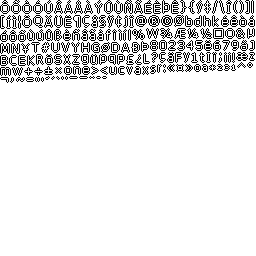
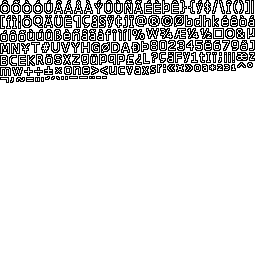
+ style

Changed region(s): [[0.0, 0.0, 1.0, 0.3125], [0.3438, 0.25, 0.4688, 0.3125], [0.9688, 0.0625, 1.0, 0.0938]]

diff --git a/spank3d/demo/Ui/Ui.cpp b/spank3d/demo/Ui/Ui.cpp
@@ -15,12 +15,13 @@ IMPLEMENT_APP(Ui);
 
 Ui::Ui()
 {
-	m_pTexSun = NULL;
+	m_pPieceSun = NULL;
 	m_pBitmapStyle = NULL;
 	m_pNinePatchStyle = NULL;
 	m_pHorizontalPatchStyle = NULL;
 	m_pVerticalPatchStyle = NULL;
 	m_pFontStyle = NULL;
+	m_pWindow = NULL;
 	m_nFPSFrame = 0;
 	m_fFPSTime = 0.0f;
 }
@@ -32,8 +33,8 @@ Ui::~Ui()
 
 bool Ui::Initialize()
 {
-	m_pTexSun = g_pResMgr->CreateTexture(_("sun.png"));
-	if (!m_pTexSun) return false;
+	m_pPieceSun = g_pUiResMgr->FindPieceInfo(_("piece_sun"));
+	if (!m_pPieceSun) return false;
 
 	m_pBitmapStyle = g_pUiResMgr->FindBitmapStyle(_("bs_default"));
 	if (!m_pBitmapStyle) return false;
@@ -51,22 +52,25 @@ bool Ui::Initialize()
 	if (!m_pFontStyle) return false;
 
 	const Vector2& wndSize = g_pDevice->GetSize();
-	const Vector2& sunSize = m_pTexSun->GetSize();
 
 	m_sunSpeed.Reset(Math::Random(150.0f, 200.0f), Math::Random(150.0f, 200.0f));
-	m_sunPosition.Reset(Math::Random(0.0f, wndSize.x-sunSize.x), Math::Random(0.0f, wndSize.y-sunSize.y));
+	m_sunPosition.Reset(Math::Random(0.0f, wndSize.x-m_pPieceSun->width), Math::Random(0.0f, wndSize.y-m_pPieceSun->height));
 
 	const Vector2& minPatchSize = m_pNinePatchStyle->GetMinSize();
 	m_patchSpeed.Reset(Math::Random(150.0f, 200.0f), Math::Random(150.0f, 200.0f));
 	m_patchPos.Reset(Math::Random(0.0f, wndSize.x-minPatchSize.x), Math::Random(0.0f, wndSize.y-minPatchSize.y));
 	m_patchSize.Reset(minPatchSize.x, minPatchSize.y);
 
+	m_pWindow = new TitledWindow(NULL);
+	m_pWindow->SetPosition(200.0f, 200.0f);
+	m_pWindow->SetSize(400.0f, 200.0f);
+
 	return true;
 }
 
 void Ui::Terminate()
 {
-	SAFE_RELEASE(m_pTexSun);
+
 }
 
 void Ui::Update(float dt)
@@ -86,13 +90,15 @@ void Ui::Update(float dt)
 
 void Ui::Render()
 {
- 	m_pNinePatchStyle->Render(m_patchPos, m_patchSize, UiState::STATE_DEFAULT);
- 	g_pRendererUi->DrawRect(m_sunPosition, m_pTexSun->GetSize(), m_pTexSun);
- 
- 	m_pBitmapStyle->Render(Vector2(0.0f, 0.0f), m_pBitmapStyle->GetMinSize(), UiState::STATE_DEFAULT);
- 	m_pHorizontalPatchStyle->Render(Vector2(0.0f, 100.0f), Vector2(200.0f, m_pHorizontalPatchStyle->GetMinSize().y), UiState::STATE_DEFAULT);
- 	m_pVerticalPatchStyle->Render(Vector2(0.0f, 200.0f), Vector2(m_pVerticalPatchStyle->GetMinSize().x, 200.0f), UiState::STATE_DEFAULT);
- 	m_pFontStyle->Render(m_strFPS, Vector2(0.0f, 0.0f), Rect(0.0f, 0.0f, 0.0f, 0.0f), UiState::STATE_DEFAULT);
+	m_pNinePatchStyle->Render(m_patchPos, m_patchSize, UiState::STATE_DEFAULT);
+	g_pRendererUi->DrawRect(m_sunPosition.x, m_sunPosition.y, float(m_pPieceSun->width), float(m_pPieceSun->height), m_pPieceSun);
+
+	m_pBitmapStyle->Render(Vector2(50.0f, 50.0f), m_pBitmapStyle->GetMinSize(), UiState::STATE_DEFAULT);
+	m_pHorizontalPatchStyle->Render(Vector2(50.0f, 100.0f), Vector2(200.0f, m_pHorizontalPatchStyle->GetMinSize().y), UiState::STATE_DEFAULT);
+	m_pVerticalPatchStyle->Render(Vector2(100.0f, 200.0f), Vector2(m_pVerticalPatchStyle->GetMinSize().x, 200.0f), UiState::STATE_DEFAULT);
+	m_pFontStyle->Render(m_strFPS, Vector2(0.0f, 0.0f), Rect(0.0f, 0.0f, 0.0f, 0.0f), UiState::STATE_DEFAULT);
+
+	m_pWindow->SystemRender(UiState::STATE_DEFAULT);
 
 	g_pRendererUi->FlushAll();
 }
@@ -102,7 +108,6 @@ void Ui::UpdatePosition(float dt)
 	m_sunPosition += m_sunSpeed*dt;
 
 	const Vector2& wndSize = g_pDevice->GetSize();
-	const Vector2& sunSize = m_pTexSun->GetSize();
 
 	if (m_sunPosition.x < 0.0f)
 	{
@@ -110,9 +115,9 @@ void Ui::UpdatePosition(float dt)
 		m_sunSpeed.x = -m_sunSpeed.x;
 	}
 
-	if (m_sunPosition.x + sunSize.x > wndSize.x)
+	if (m_sunPosition.x + m_pPieceSun->width > wndSize.x)
 	{
-		m_sunPosition.x = wndSize.x - sunSize.x;
+		m_sunPosition.x = wndSize.x - m_pPieceSun->width;
 		m_sunSpeed.x = -m_sunSpeed.x;
 	}
 
@@ -122,9 +127,9 @@ void Ui::UpdatePosition(float dt)
 		m_sunSpeed.y = -m_sunSpeed.y;
 	}
 
-	if (m_sunPosition.y + sunSize.y > wndSize.y)
+	if (m_sunPosition.y + m_pPieceSun->height > wndSize.y)
 	{
-		m_sunPosition.y = wndSize.y - sunSize.y;
+		m_sunPosition.y = wndSize.y - m_pPieceSun->height;
 		m_sunSpeed.y = -m_sunSpeed.y;
 	}
 }

diff --git a/spank3d/src/ui/controls/TitledWindow.cpp b/spank3d/src/ui/controls/TitledWindow.cpp
@@ -1,0 +1,38 @@
+/*!
+ * \file TitledWindow.cpp
+ * \date 10-01-2012 8:34:06
+ * 
+ * 
+ * \author zjhlogo (zjhlogo@gmail.com)
+ */
+#include <ui/controls/TitledWindow.h>
+#include <Spank3d.h>
+
+TitledWindow::TitledWindow(IWindow* parent)
+:IWindow(parent)
+{
+	m_pTitleStyle = g_pUiResMgr->FindHorizontalPatchStyle(_("hps_default_blue"));
+	m_pFontStyle = g_pUiResMgr->FindFontStyle(_("12px_Tahoma"));
+}
+
+TitledWindow::~TitledWindow()
+{
+	// TODO: 
+}
+
+void TitledWindow::Render(uint state)
+{
+	Vector2 pos = m_Position;
+	Vector2 size = m_Size;
+
+	size.y = m_pTitleStyle->GetBestSize().y;
+	m_pTitleStyle->Render(pos, size, state);
+
+	pos.y += size.y;
+	size.y = m_Size.y - m_pTitleStyle->GetBestSize().y;
+	m_pBgStyle->Render(pos, size, state);
+
+	pos.x = m_Position.x + m_pTitleStyle->GetPaddingLT().x;
+	pos.y = m_Position.y + 0.5f*(m_pTitleStyle->GetPaddingLT().y + m_pTitleStyle->GetBestSize().y - m_pTitleStyle->GetPaddingRB().y - m_pFontStyle->GetLineHeight());
+	m_pFontStyle->Render(_("TitledWindow"), pos, Rect(0.0f, 0.0f, 0.0f, 0.0f), state);
+}

diff --git a/spank3d/src/ui/style/BitmapFontStyle.cpp b/spank3d/src/ui/style/BitmapFontStyle.cpp
@@ -11,7 +11,8 @@
 BitmapFontStyle::BitmapFontStyle(const tstring& id)
 :IFontStyle(id)
 {
-	// TODO: 
+	m_fLineHeight = 0.0f;
+	m_nNumPages = 0;
 }
 
 BitmapFontStyle::~BitmapFontStyle()
@@ -19,6 +20,11 @@ BitmapFontStyle::~BitmapFontStyle()
 	DestroyTextures();
 	m_CharInfoMap.clear();
 	m_KerningMap.clear();
+}
+
+float BitmapFontStyle::GetLineHeight() const
+{
+	return m_fLineHeight;
 }
 
 bool BitmapFontStyle::Render(const tstring& strText, const Vector2& pos, const Rect& clipRect, uint state)
@@ -79,7 +85,9 @@ bool BitmapFontStyle::ParseCommonInfo(TiXmlElement* pXmlCommon)
 {
 	if (!pXmlCommon) return false;
 
-	if (!pXmlCommon->Attribute(_("lineHeight"), &m_nLineHeight)) return false;
+	int nLineHeight = 0;
+	if (!pXmlCommon->Attribute(_("lineHeight"), &nLineHeight)) return false;
+	m_fLineHeight = float(nLineHeight);
 
 	return true;
 }

diff --git a/spank3d/inc/ui/controls/IWindow.h b/spank3d/inc/ui/controls/IWindow.h
@@ -10,6 +10,7 @@
 
 #include "../../core/IObject.h"
 #include "../../math/Vector2.h"
+#include "../style/IGraphicsStyle.h"
 #include <vector>
 
 class IWindow : public IObject
@@ -46,7 +47,14 @@ public:
 	void RemoveAllChildren();
 	bool FindChild(IWindow* pChild);
 
-private:
+	void SystemUpdate(float dt);
+	void SystemRender(uint state);
+
+protected:
+	virtual void Update(float dt);
+	virtual void Render(uint state);
+
+protected:
 	Vector2 m_Position;
 	Vector2 m_Size;
 	Vector2 m_Scroll;
@@ -54,6 +62,8 @@ private:
 	IWindow* m_pParent;
 	tstring m_strId;
 	TV_WINDOW m_vChildren;
+
+	IGraphicsStyle* m_pBgStyle;
 
 };
 #endif // __IWINDOW_H__

diff --git a/spank3d/src/ui/controls/IWindow.cpp b/spank3d/src/ui/controls/IWindow.cpp
@@ -6,10 +6,12 @@
  * \author zjhlogo (zjhlogo@gmail.com)
  */
 #include <ui/controls/IWindow.h>
+#include <Spank3d.h>
 
 IWindow::IWindow(IWindow* pParent)
 {
 	m_pParent = pParent;
+	m_pBgStyle = g_pUiResMgr->FindNinePatchStyle(_("nps_default"));
 }
 
 IWindow::~IWindow()
@@ -150,4 +152,24 @@ bool IWindow::FindChild(IWindow* pChild)
 	}
 
 	return false;
+}
+
+void IWindow::SystemUpdate(float dt)
+{
+	Update(dt);
+}
+
+void IWindow::SystemRender(uint state)
+{
+	Render(state);
+}
+
+void IWindow::Update(float dt)
+{
+	// TODO: 
+}
+
+void IWindow::Render(uint state)
+{
+	m_pBgStyle->Render(m_Position, m_Size, state);
 }

diff --git a/spank3d/inc/ui/controls/TitledWindow.h b/spank3d/inc/ui/controls/TitledWindow.h
@@ -1,0 +1,29 @@
+/*!
+ * \file TitledWindow.h
+ * \date 10-01-2012 8:33:03
+ * 
+ * 
+ * \author zjhlogo (zjhlogo@gmail.com)
+ */
+#ifndef __TITLEDWINDOW_H__
+#define __TITLEDWINDOW_H__
+
+#include "IWindow.h"
+#include "../style/IFontStyle.h"
+
+class TitledWindow : public IWindow
+{
+public:
+	RTTI_DEF(TitledWindow, IWindow);
+
+	TitledWindow(IWindow* parent);
+	virtual ~TitledWindow();
+
+	virtual void Render(uint state);
+
+private:
+	IGraphicsStyle* m_pTitleStyle;
+	IFontStyle* m_pFontStyle;
+
+};
+#endif // __TITLEDWINDOW_H__

diff --git a/spank3d/demo/Ui/Ui.h b/spank3d/demo/Ui/Ui.h
@@ -10,6 +10,7 @@
 
 #include <Spank3d.h>
 #include <event/MouseEvent.h>
+#include <ui/controls/TitledWindow.h>
 
 class Ui : public IApp
 {
@@ -30,7 +31,7 @@ private:
 	void UpdatePatchSize(float dt);
 
 private:
-	ITexture* m_pTexSun;
+	PieceInfo* m_pPieceSun;
 	Vector2 m_sunSpeed;
 	Vector2 m_sunPosition;
 
@@ -44,6 +45,8 @@ private:
 	HorizontalPatchStyle* m_pHorizontalPatchStyle;
 	VerticalPatchStyle* m_pVerticalPatchStyle;
 	IFontStyle* m_pFontStyle;
+
+	TitledWindow* m_pWindow;
 
 	uint m_nFPSFrame;
 	float m_fFPSTime;

diff --git a/spank3d/inc/ui/style/BitmapFontStyle.h b/spank3d/inc/ui/style/BitmapFontStyle.h
@@ -24,6 +24,7 @@ public:
 	BitmapFontStyle(const tstring& id);
 	virtual ~BitmapFontStyle();
 
+	virtual float GetLineHeight() const;
 	virtual bool Render(const tstring& strText, const Vector2& pos, const Rect& clipRect, uint state);
 	bool LoadFontFile(const tstring& strFile);
 
@@ -35,7 +36,7 @@ private:
 	bool CreateKerningsInfo(TiXmlElement* pXmlKerningsInfo);
 
 private:
-	int m_nLineHeight;
+	float m_fLineHeight;
 	int m_nNumPages;
 	TV_TEXTURE m_vTextures;
 	TM_CHAR_INFO m_CharInfoMap;

diff --git a/spank3d/inc/ui/IUiResMgr.h b/spank3d/inc/ui/IUiResMgr.h
@@ -24,7 +24,7 @@ public:
 	IUiResMgr() {};
 	virtual ~IUiResMgr() {};
 
-	virtual const PieceInfo* FindPieceInfo(const tstring& strId) = 0;
+	virtual PieceInfo* FindPieceInfo(const tstring& strId) = 0;
 	virtual BitmapStyle* FindBitmapStyle(const tstring& strId) = 0;
 	virtual NinePatchStyle* FindNinePatchStyle(const tstring& strId) = 0;
 	virtual VerticalPatchStyle* FindVerticalPatchStyle(const tstring& strId) = 0;

diff --git a/spank3d/src/ui/UiResMgr_Impl.h b/spank3d/src/ui/UiResMgr_Impl.h
@@ -29,7 +29,7 @@ public:
 	virtual bool Initialize();
 	virtual void Terminate();
 
-	virtual const PieceInfo* FindPieceInfo(const tstring& strId);
+	virtual PieceInfo* FindPieceInfo(const tstring& strId);
 	virtual BitmapStyle* FindBitmapStyle(const tstring& strId);
 	virtual NinePatchStyle* FindNinePatchStyle(const tstring& strId);
 	virtual VerticalPatchStyle* FindVerticalPatchStyle(const tstring& strId);

diff --git a/spank3d/src/ui/style/PieceInfo.cpp b/spank3d/src/ui/style/PieceInfo.cpp
@@ -38,7 +38,7 @@ bool PieceInfo::LoadFromXml(TiXmlElement* pXmlPieceInfo)
 	const tchar* pszTexture = pXmlPieceInfo->Attribute(_("texture"));
 	if (!pszTexture) return false;
 
-	pTexture = g_pResMgr->CreateTexture(pszTexture);
+	pTexture = g_pResMgr->CreateTexture(pszTexture, ITexture::TS_NEAREST);
 	if (!pTexture) return false;
 
 	pXmlPieceInfo->Attribute(_("x"), &x);

diff --git a/spank3d/src/ui/style/IGraphicsStyle.cpp b/spank3d/src/ui/style/IGraphicsStyle.cpp
@@ -136,7 +136,7 @@ bool IGraphicsStyle::LoadFromXml(TiXmlElement* pXmlGraphicsStyle)
 	pXmlGraphicsStyle->Attribute(_("paddingR"), &paddingR);
 	pXmlGraphicsStyle->Attribute(_("paddingB"), &paddingB);
 	SetPaddingLT(float(paddingL), float(paddingT));
-	SetPaddingLT(float(paddingR), float(paddingB));
+	SetPaddingRB(float(paddingR), float(paddingB));
 
 	return true;
 }
